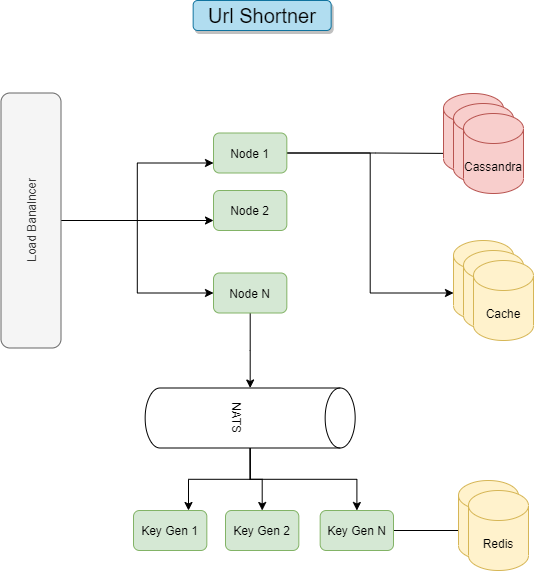
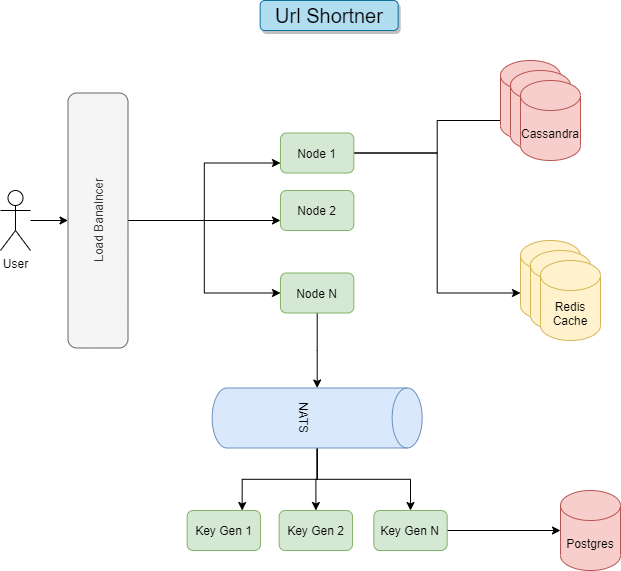
fix: Readme: Updated description 📘

diff --git a/Readme.md b/Readme.md
@@ -1,9 +1,45 @@
-## Requirements
+# Url Shortner
+This is a design & implementation for a large scale url shortner. 
+The aim of making this is to learn and implement a scalable url shortner. 
 
-## Additional features
-1. Github CI/CD Pipeline
-2. Logging
-3. Kubernetes
-4. 
+## Requirements
+1. Given a long URL, the service should generate a shorter and unique alias of it.
+2. Shortened link should be as small as possible
+3. When the user hits a short link, the service should redirect to the original link.
+4. The system should be highly available. This is really important to consider because if the service goes down, all the URL redirection will start failing.
+5. URL redirection should happen in real-time with minimal latency.
+6. Once a shortened link is generated it should stay in system for lifetime
+
+## Optional Requirements
+1. Shortened links should not be predictable.
+2. Analytics of URLs
+3. Deployment with Kubernetes
+4. Github CI/CD Pipeline 
+
+## Scale
+- 100M new URL shortenings per month
+- We keep every URL for 10 Years
+- 200:1 read/write ratio
+
+### Estimates based on the scale
+- Writes per second - 100 million / (30days*24hours*3600seconds) = 40Urls/Second
+- Read per second - 40*200 = 8000 URLs/s
+- Total storage needed - 100 million/month * 10 years * 12 months * 1kb data/url = 12TB
+
+## System design approach 
+![](./URLShortner.png)
+
+### Explaination
+1. Will use cassandra for storing high volume of short urls. We could have used MongoDB with shards as well. 
+2. For short key generation we are having a different service. The reasoning for that is explined in the article.
+3. We use NATs as our pub/sub for inter service communication. 
+4. Redis is used for caching. We'll be using redis sentinel with read replicas to increase read performance & High availability. 
+
+## API
+
+## Services
+- Shortner for serving short urls and creating new short url. 
+- Keygen - Service for generating a shortkey for a url.
+
 ### Help resources
 https://github.com/xmlking/micro-starter-kit
